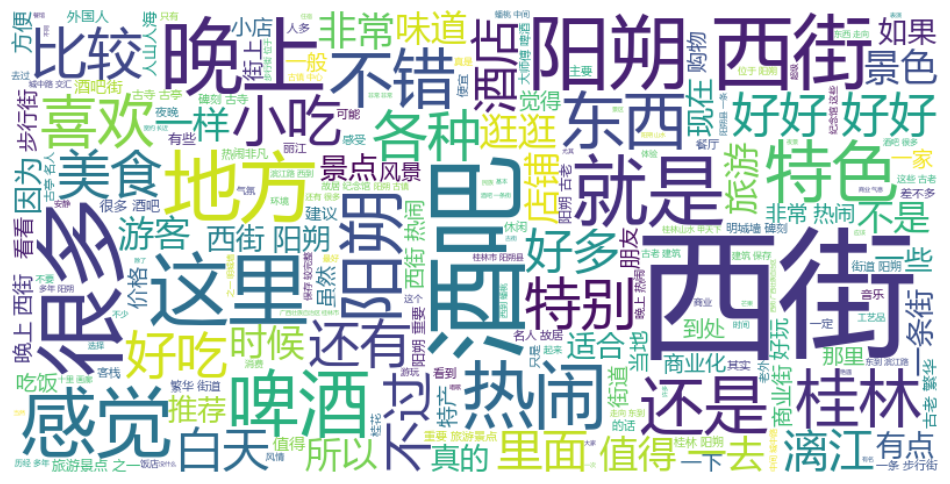
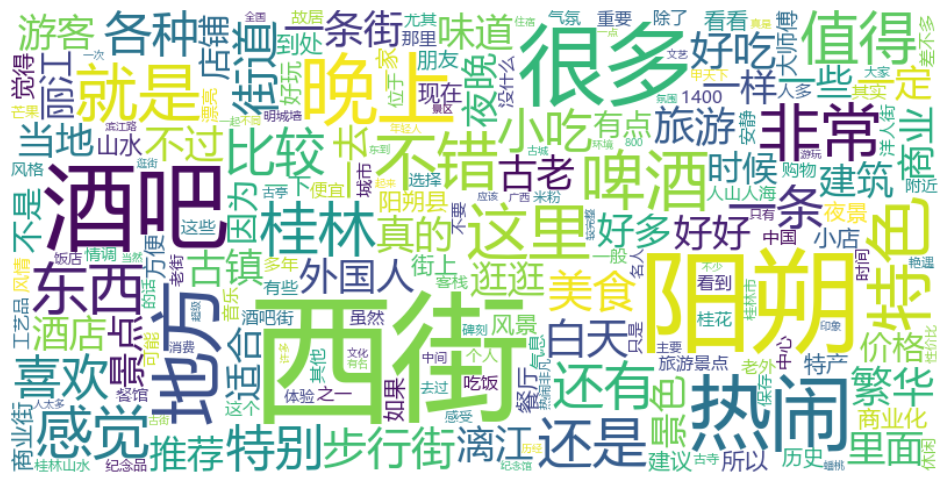
updated

diff --git a/src/analysis/compare_result.py b/src/analysis/compare_result.py
@@ -3,6 +3,8 @@ import matplotlib.pyplot as plt
 from wordcloud import WordCloud
 import os
 import jieba  # 中文分词库
+from collections import Counter
+
 
 
 # 1. 读取 final_data_info.txt 文件获取景区信息
@@ -78,18 +80,16 @@ def generate_wordcloud(text, scenic_spot, output_dir):
     text_cut = jieba.cut(' '.join(text))  # 对文本进行分词
     filtered_text = [word for word in text_cut if word not in stop_words and len(word.strip()) > 1]  # 去掉停用词和单字符的词
 
-    # 将过滤后的词语合并成一个字符串
-    text_cut = ' '.join(filtered_text)
+    # 统计每个词的出现频率
+    word_counts = Counter(filtered_text)
 
-    # 尝试使用系统自带的中文字体
-    font_path = 'C:\\Windows\\Fonts\\msyh.ttc'  # 微软雅黑字体
-
+    # 使用wordcloud的generate_from_frequencies方法生成词云
     wordcloud = WordCloud(
         width=800,
         height=400,
         background_color='white',
-        font_path=font_path  # 微软雅黑字体
-    ).generate(text_cut)
+        font_path='C:\\Windows\\Fonts\\msyh.ttc'  # 微软雅黑字体
+    ).generate_from_frequencies(word_counts)  # 使用词频来生成词云
     
     plt.figure(figsize=(12, 8))
     plt.imshow(wordcloud, interpolation='bilinear')
